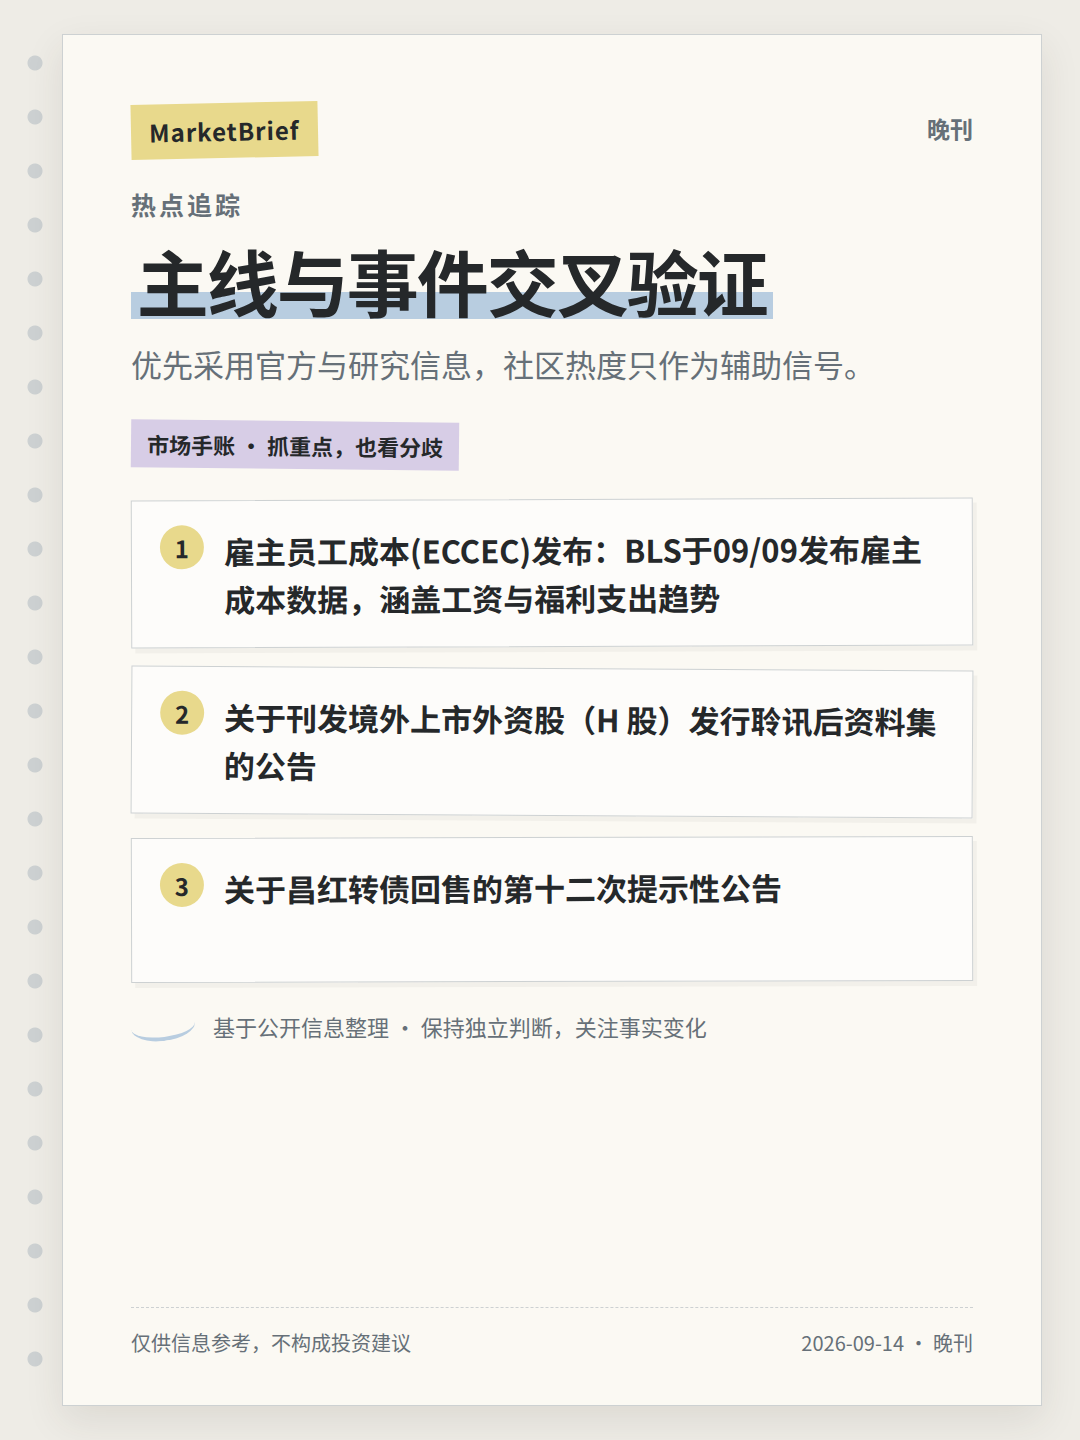
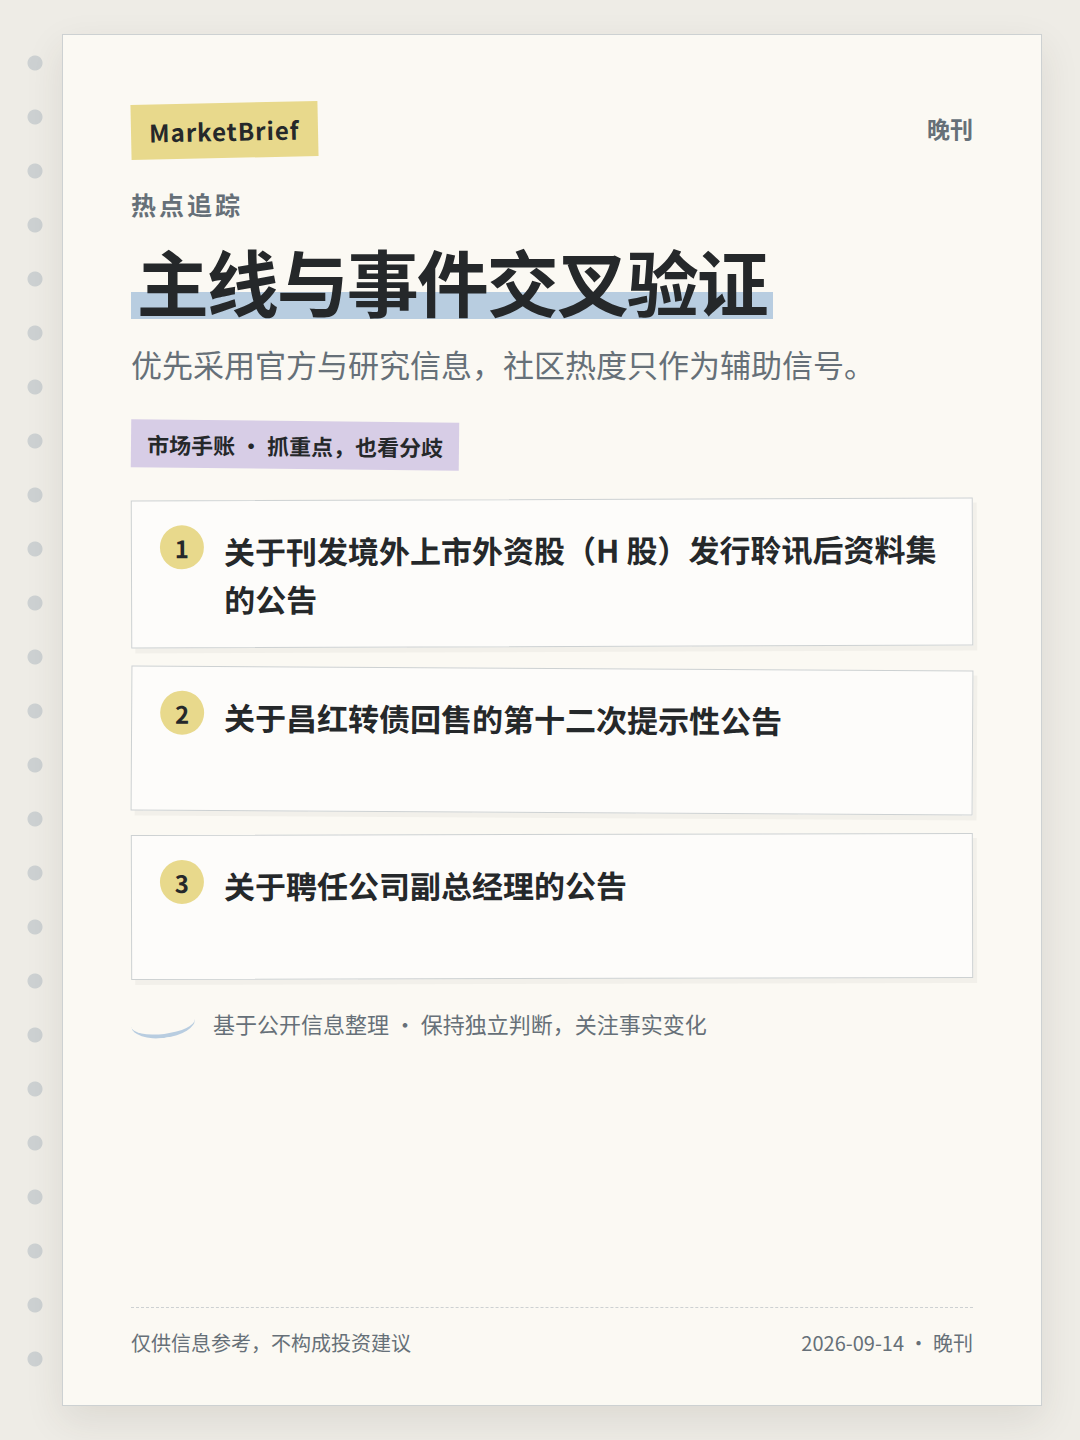
MarketBrief: publish official-source notebook edition

diff --git a/output/marketbrief/2026-09-14/pm/2026-09-14-pm-06.html b/output/marketbrief/2026-09-14/pm/2026-09-14-pm-06.html
@@ -27,7 +27,7 @@ footer{position:absolute;z-index:1;left:68px;right:68px;bottom:48px;border-top:1
 <h1><span>后续变量仍需确认</span></h1>
 <div class="sub">只保留来源自身限制和当前证据中的风险项，不额外推演。</div>
 <div class="ribbon">市场手账 · 抓重点，也看分歧</div>
-<div class="notes"><section class="note"><b>1</b><p>该页面仅为BLS新闻室索引页，仅显示发布日期和标题，未包含各报告的具体数值或分析内容</p></section><section class="note"><b>2</b><p>部分社区信息存在时效性不足，过期内容已从当前证据中剔除。</p></section><section class="note"><b>3</b><p>无法从索引页判断各数据的具体方向（上升/下降），需查阅完整报告</p></section></div>
+<div class="notes"><section class="note"><b>1</b><p>大周期行业周报（9月第2周）：地缘冲突推升油价</p></section><section class="note"><b>2</b><p>策略周报：等待海外不确定性落地，A股蓄势修复</p></section><section class="note"><b>3</b><p>继续观察公开信息变化，避免仅凭单一信号下结论。</p></section></div>
 <div class="margin"><span class="sketch"></span><span>基于公开信息整理 · 保持独立判断，关注事实变化</span></div>
 <footer><span>仅供信息参考，不构成投资建议</span><span>2026-09-14 · 晚刊</span></footer>
 </main></body></html>

diff --git a/output/marketbrief/2026-09-14/pm/2026-09-14-pm-02.html b/output/marketbrief/2026-09-14/pm/2026-09-14-pm-02.html
@@ -27,7 +27,7 @@ footer{position:absolute;z-index:1;left:68px;right:68px;bottom:48px;border-top:1
 <h1><span>今晚外部变量</span></h1>
 <div class="sub">只保留当前时效窗口内、已有公开信息支持的海外市场与宏观线索。</div>
 <div class="ribbon">市场手账 · 抓重点，也看分歧</div>
-<div class="notes"><section class="note"><b>1</b><p>消费者价格指数(CPI)发布：BLS于09/11发布最新CPI数据，为当前通胀核心指标</p></section><section class="note"><b>2</b><p>生产者价格指数(PPI)发布：BLS于09/10发布PPI数据，反映生产端价格压力</p></section><section class="note"><b>3</b><p>实际收入发布：BLS于09/11发布实际收入数据，反映扣除通胀后工资变动</p></section></div>
+<div class="notes"><section class="note"><b>1</b><p>FICC周报：关注下周美联储动向</p></section><section class="note"><b>2</b><p>大周期行业周报（9月第2周）：地缘冲突推升油价</p></section><section class="note"><b>3</b><p>8月美国核心CPI环比超预期，9月美联储会议或加息25个基点</p></section></div>
 <div class="margin"><span class="sketch"></span><span>基于公开信息整理 · 保持独立判断，关注事实变化</span></div>
 <footer><span>仅供信息参考，不构成投资建议</span><span>2026-09-14 · 晚刊</span></footer>
 </main></body></html>

diff --git a/output/marketbrief/2026-09-14/pm/2026-09-14-pm-04.html b/output/marketbrief/2026-09-14/pm/2026-09-14-pm-04.html
@@ -27,7 +27,7 @@ footer{position:absolute;z-index:1;left:68px;right:68px;bottom:48px;border-top:1
 <h1><span>主线与事件交叉验证</span></h1>
 <div class="sub">优先采用官方与研究信息，社区热度只作为辅助信号。</div>
 <div class="ribbon">市场手账 · 抓重点，也看分歧</div>
-<div class="notes"><section class="note"><b>1</b><p>雇主员工成本(ECCEC)发布：BLS于09/09发布雇主成本数据，涵盖工资与福利支出趋势</p></section><section class="note"><b>2</b><p>关于刊发境外上市外资股（H 股）发行聆讯后资料集的公告</p></section><section class="note"><b>3</b><p>关于昌红转债回售的第十二次提示性公告</p></section></div>
+<div class="notes"><section class="note"><b>1</b><p>关于刊发境外上市外资股（H 股）发行聆讯后资料集的公告</p></section><section class="note"><b>2</b><p>关于昌红转债回售的第十二次提示性公告</p></section><section class="note"><b>3</b><p>关于聘任公司副总经理的公告</p></section></div>
 <div class="margin"><span class="sketch"></span><span>基于公开信息整理 · 保持独立判断，关注事实变化</span></div>
 <footer><span>仅供信息参考，不构成投资建议</span><span>2026-09-14 · 晚刊</span></footer>
 </main></body></html>

diff --git a/output/marketbrief/2026-09-14/pm/2026-09-14-pm-05.html b/output/marketbrief/2026-09-14/pm/2026-09-14-pm-05.html
@@ -27,7 +27,7 @@ footer{position:absolute;z-index:1;left:68px;right:68px;bottom:48px;border-top:1
 <h1><span>事实、观点与情绪分开看</span></h1>
 <div class="sub">先看已确认事实，再看研究判断和市场情绪是否一致。</div>
 <div class="ribbon">市场手账 · 抓重点，也看分歧</div>
-<div class="notes"><section class="note"><b>1</b><p>消费者价格指数(CPI)发布：BLS于09/11发布最新CPI数据，为当前通胀核心指标</p></section><section class="note"><b>2</b><p>晨会纪要</p></section><section class="note"><b>3</b><p>继续观察公开信息变化，避免仅凭单一信号下结论。</p></section></div>
+<div class="notes"><section class="note"><b>1</b><p>关于刊发境外上市外资股（H 股）发行聆讯后资料集的公告</p></section><section class="note"><b>2</b><p>晨会纪要</p></section><section class="note"><b>3</b><p>继续观察公开信息变化，避免仅凭单一信号下结论。</p></section></div>
 <div class="margin"><span class="sketch"></span><span>基于公开信息整理 · 保持独立判断，关注事实变化</span></div>
 <footer><span>仅供信息参考，不构成投资建议</span><span>2026-09-14 · 晚刊</span></footer>
 </main></body></html>

diff --git a/output/marketbrief/2026-09-14/pm/2026-09-14-pm-01.html b/output/marketbrief/2026-09-14/pm/2026-09-14-pm-01.html
@@ -25,7 +25,7 @@ footer{position:absolute;z-index:1;left:68px;right:68px;bottom:48px;border-top:1
 <div class="top"><span class="tape">MarketBrief</span><span class="edition">晚刊</span></div>
 <div class="kicker">今日简报</div>
 <h1><span>下周美联储动向、地缘冲突推升油价成焦点</span></h1>
-<div class="sub">晚刊基于4份有效来源分析，当前重点为下周美联储动向、地缘冲突推升油价。仅保留时效合格的公开信息，事实、研究观点与市场情绪分开呈现。</div>
+<div class="sub">晚刊基于3份有效来源分析，当前重点为下周美联储动向、地缘冲突推升油价。仅保留时效合格的公开信息，事实、研究观点与市场情绪分开呈现。</div>
 <div class="ribbon">市场手账 · 抓重点，也看分歧</div>
 <div class="notes"><section class="note"><b>1</b><p>晨会纪要</p></section><section class="note"><b>2</b><p>FICC周报：关注下周美联储动向</p></section><section class="note"><b>3</b><p>大周期行业周报（9月第2周）：地缘冲突推升油价</p></section></div>
 <div class="margin"><span class="sketch"></span><span>基于公开信息整理 · 保持独立判断，关注事实变化</span></div>

diff --git a/output/marketbrief/2026-09-14/pm/brief.md b/output/marketbrief/2026-09-14/pm/brief.md
@@ -1,14 +1,14 @@
 # 下周美联储动向、地缘冲突推升油价成焦点
 
-> 晚刊基于4份有效来源分析，当前重点为下周美联储动向、地缘冲突推升油价。仅保留时效合格的公开信息，事实、研究观点与市场情绪分开呈现。
+> 晚刊基于3份有效来源分析，当前重点为下周美联储动向、地缘冲突推升油价。仅保留时效合格的公开信息，事实、研究观点与市场情绪分开呈现。
 
 ## 今晚外部变量
 
 只保留当前时效窗口内、已有公开信息支持的海外市场与宏观线索。
 
-- 消费者价格指数(CPI)发布：BLS于09/11发布最新CPI数据，为当前通胀核心指标
-- 生产者价格指数(PPI)发布：BLS于09/10发布PPI数据，反映生产端价格压力
-- 实际收入发布：BLS于09/11发布实际收入数据，反映扣除通胀后工资变动
+- FICC周报：关注下周美联储动向
+- 大周期行业周报（9月第2周）：地缘冲突推升油价
+- 8月美国核心CPI环比超预期，9月美联储会议或加息25个基点
 
 ## A股结构与资金
 
@@ -20,24 +20,23 @@
 
 优先采用官方与研究信息，社区热度只作为辅助信号。
 
-- 雇主员工成本(ECCEC)发布：BLS于09/09发布雇主成本数据，涵盖工资与福利支出趋势
 - 关于刊发境外上市外资股（H 股）发行聆讯后资料集的公告
 - 关于昌红转债回售的第十二次提示性公告
+- 关于聘任公司副总经理的公告
 
 ## 事实、观点与情绪分开看
 
 先看已确认事实，再看研究判断和市场情绪是否一致。
 
-- 消费者价格指数(CPI)发布：BLS于09/11发布最新CPI数据，为当前通胀核心指标
+- 关于刊发境外上市外资股（H 股）发行聆讯后资料集的公告
 - 晨会纪要
 
 ## 后续变量仍需确认
 
 只保留来源自身限制和当前证据中的风险项，不额外推演。
 
-- 该页面仅为BLS新闻室索引页，仅显示发布日期和标题，未包含各报告的具体数值或分析内容
-- 部分社区信息存在时效性不足，过期内容已从当前证据中剔除。
-- 无法从索引页判断各数据的具体方向（上升/下降），需查阅完整报告
+- 大周期行业周报（9月第2周）：地缘冲突推升油价
+- 策略周报：等待海外不确定性落地，A股蓄势修复
 
 ## 信息口径
 
@@ -48,5 +47,5 @@
 本文仅作公开信息整理与讨论，不构成任何投资建议。
 
 刊期：2026-09-14 晚刊  
-生成时间：2026-09-14T12:38:33+08:00  
-模型：`SenseNova` · 调用 3 次 · Token 5361
+生成时间：2026-09-14T12:56:05+08:00  
+模型：`SenseNova` · 调用 3 次 · Token 5482
